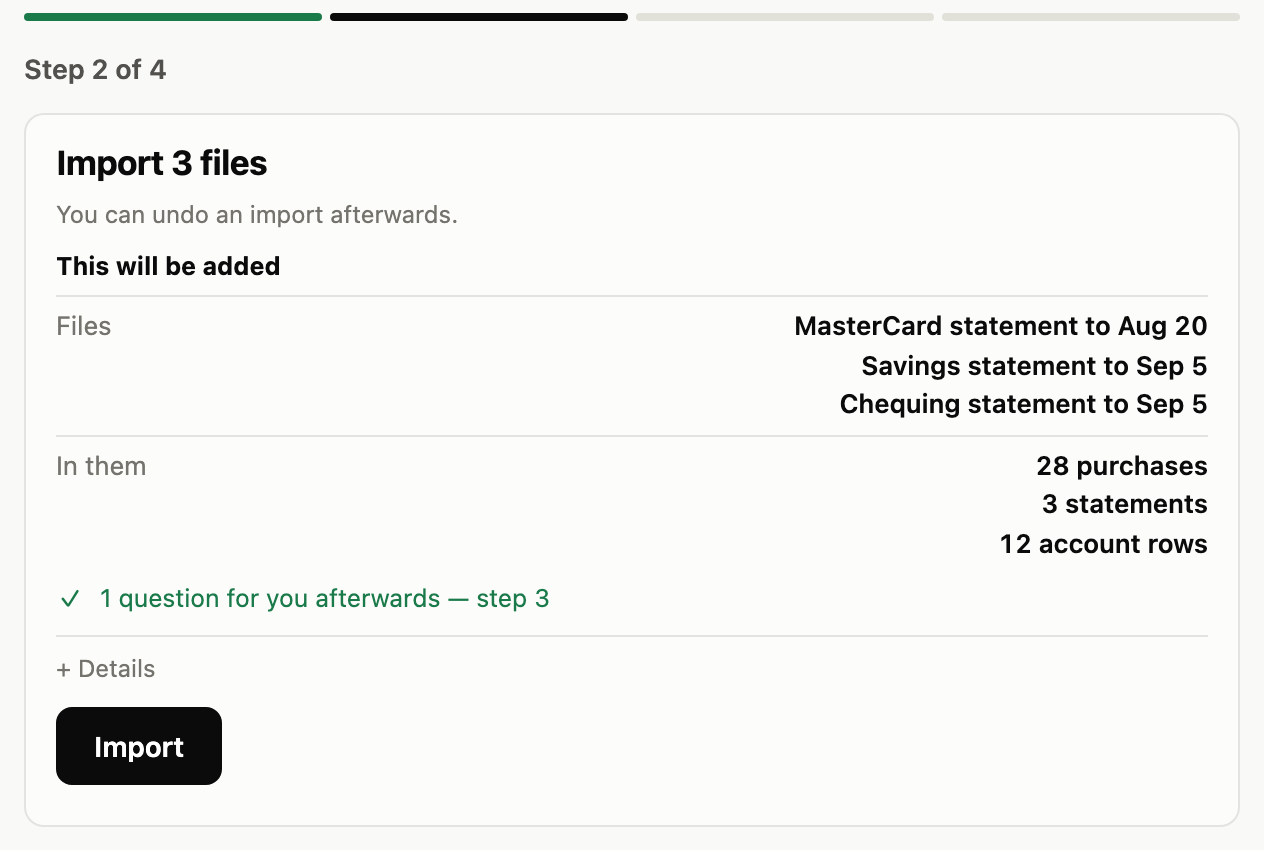
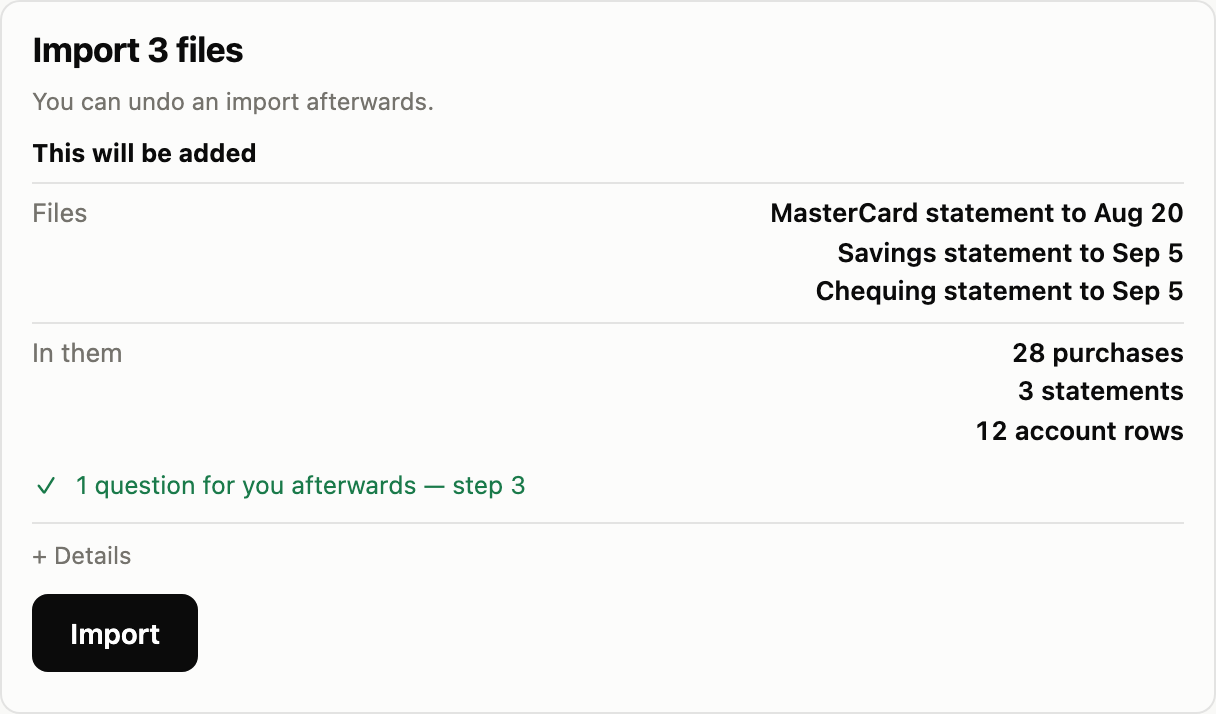
Front page: once a month, three things to do, then the result
Each card says what you do in one short line and what the app does under it; the fourth panel
step is the result, which asks nothing of you. The panel's pictures are its card only.

diff --git a/docs/site/make.py b/docs/site/make.py
@@ -58,17 +58,20 @@ EN = dict(
             ("Every number adds up.", "A statement only gets in if it matches the totals printed on it."),
             ("A FIRE plan, not just a budget.", "Years to financial independence, how long your money "
              "will last, your TFSA, RRSP and FHSA, and accounts abroad — all in one net worth.")],
-    how_lab="How it works", how_h="Four steps, once a month",
-    steps=[("Get your files", "Download last month's statements from your bank. The app tells you "
-                              "which ones are missing and where to find each.",
-            "Step 1 in the app: each account and what is still needed, and the files in the folder"),
-           ("Import", "Drag them in. Each one is read on your Mac and only gets in if it adds up.",
-            "Step 2: what the import will add, before anything is written"),
-           ("Categorize", "You only answer what a program can't decide — a new shop, a transfer "
-                          "with no name. One tap each, and it remembers next time.",
-            "Step 3: one question at a time, here a transfer with no sender"),
-           ("Done", "Your page updates with the new month.",
-            "Step 4: what changed, with the net worth before and after")],
+    how_lab="How it works", how_h="Once a month, three things to do", you="You", app="The app",
+    steps=[("Get your files", "Download last month's statements from your bank, plus your broker's export if you have one.",
+            "Tells you which ones are still missing and where to find each.",
+            "In the app: each account and what is still needed, and the files in the folder"),
+           ("Import", "Drag them in and press Import.",
+            "Reads each one on your Mac — nothing is uploaded — and only lets it in if it matches the "
+            "statement's own totals. You can undo it.",
+            "In the app: what the import will add, before anything is written"),
+           ("Categorize", "Answer what only you know: a new shop, an e-Transfer with no name. Some months "
+                          "there's nothing to ask.",
+            "Remembers every shop and sender you name.",
+            "In the app: one question at a time, here an e-Transfer with no sender")],
+    then_h="Then", then_p="Your page updates with the new month: what you spent, and where your net worth moved.",
+    then_alt="In the app: what changed, with the net worth before and after",
     panel="panel",
     q_lab="What it tells you",
     qs=[("Where do I stand?", "Your net worth across every account and currency — each part labelled "
@@ -132,15 +135,18 @@ ZH = dict(
     points=[("不用连银行。", "对账单你自己下载，app 在你的电脑上读取，不上传任何东西，也不用注册。"),
             ("每个数都对得上。", "每份对账单都要和它自己印的合计一致，才会收进来。"),
             ("不只是记账，还有 FIRE 计划。", "还要几年财务自由、退休后钱能撑多久；TFSA、RRSP、FHSA 和海外账户，都算进同一个净值。")],
-    how_lab="怎么用", how_h="每个月，四步搞定",
-    steps=[("下载文件", "从网银下载上个月的对账单。app 会提醒你还差哪几份、每份去哪下载。",
-            "app 里的第 1 步：每个账户还差什么，文件夹里已经有哪些文件"),
-           ("导入", "把文件拖进来。每份都在你的 Mac 上读取，金额核对无误才收进来。",
-            "第 2 步：写进去之前，先告诉你会加进来什么"),
-           ("归类", "只有程序判断不了的才问你，比如第一次出现的商户、没写付款人的转账。点一下就好，下次自动记住。",
-            "第 3 步：一次只问一件事，这里是一笔没写付款人的转账"),
-           ("完成", "你的总览页加上新的一个月，自动更新。",
-            "第 4 步：这次改了什么，净值前后各是多少")],
+    how_lab="怎么用", how_h="每个月，你只做三件事", you="你", app="app",
+    steps=[("下载文件", "从网银下载上个月的对账单；有券商账户的话，再导出一份券商记录。",
+            "提醒你还差哪几份、每份去哪下载。",
+            "app 里：每个账户还差什么，文件夹里已经有哪些文件"),
+           ("导入", "把文件拖进来，点「导入」。",
+            "在你的 Mac 上逐份读取，不上传；和对账单自己印的合计一致才收进来。导入后也可以撤销。",
+            "app 里：写进去之前，先告诉你会加进来什么"),
+           ("归类", "回答只有你知道的事，比如第一次出现的商户、没写付款人的 e-Transfer。有的月份一个问题都没有。",
+            "你说过的商户和付款人，它都会记住。",
+            "app 里：一次只问一件事，这里是一笔没写付款人的 e-Transfer")],
+    then_h="然后", then_p="你的总览页加上新的一个月：花了多少，净值怎么变。",
+    then_alt="app 里：这次改了什么，净值前后各是多少",
     panel="panel-zh",
     q_lab="它能回答",
     qs=[("我现在有多少家底？", "所有账户、所有币种合在一起的净值：每一行是这笔钱的用途，色条的颜色表示取用有多方便。",
@@ -224,17 +230,26 @@ h1 { font-size:clamp(30px,3.3vw,44px); line-height:1.1; letter-spacing:-.025em; 
 .points span { color:var(--ink-2); font-size:15px; }
 section { padding:72px 0 0; scroll-margin-top:60px; }
 h2 { font-size:clamp(24px,3vw,32px); letter-spacing:-.015em; line-height:1.2; margin:0 0 28px; }
-.steps { display:grid; grid-template-columns:1fr 1fr; gap:48px 40px; align-items:start;
-         margin:0; padding:0; list-style:none; counter-reset:s; }
-@media (max-width:760px) { .steps { grid-template-columns:1fr; gap:40px; } }
-.steps li { counter-increment:s; }
-.steps .st { position:relative; padding:0 0 18px 44px; min-height:92px; }
-@media (max-width:760px) { .steps .st { min-height:0; } }
-.steps .st::before { content:counter(s); position:absolute; left:0; top:0; width:28px; height:28px; border-radius:50%;
-                    background:var(--btn); color:#fff; font-weight:700; font-size:14px; display:flex;
-                    align-items:center; justify-content:center; }
-.steps b { display:block; font-size:17px; margin:2px 0 4px; }
-.steps span { color:var(--ink-2); font-size:15px; }
+/* Once a month, three things to do (2026-11-17, user 001): what you do is one short line, what the
+   app does the longer one under it; then the result, which asks nothing of you. */
+.walk { display:grid; grid-template-columns:1fr 1fr; gap:20px; align-items:start; margin:0; padding:0; list-style:none; }
+@media (max-width:980px) { .walk { grid-template-columns:1fr; } }
+.wk { background:var(--surface); border:1px solid var(--border); border-radius:14px; padding:22px 22px 20px;
+      display:flex; flex-direction:column; gap:16px; }
+.wk h3 { display:flex; align-items:center; gap:12px; font-size:20px; margin:0; letter-spacing:-.01em; }
+.wk h3 i { flex:none; width:28px; height:28px; border-radius:50%; background:var(--btn); color:#fff; font-style:normal;
+           font-size:14px; font-weight:700; display:inline-flex; align-items:center; justify-content:center; }
+.who { display:grid; grid-template-columns:auto 1fr; gap:8px 14px; margin:0; font-size:15.5px; line-height:1.5; }
+.who dt { color:var(--muted); font-size:12px; font-weight:700; letter-spacing:.06em; text-transform:uppercase;
+          padding-top:3px; white-space:nowrap; }
+.who dd { margin:0; color:var(--ink-2); }
+.who dd.you { color:var(--ink); }
+.wk .pic { margin:0; }
+.wk .pic img { display:block; width:100%; height:auto; border-radius:10px; border:1px solid var(--border);
+               box-shadow:0 1px 2px rgba(46,44,41,.05), 0 10px 28px rgba(46,44,41,.08); }
+.wk.then { background:#eaf1ea; border-color:rgba(30,122,70,.22); }
+.wk.then h3 i { background:var(--ok); }
+.wk.then p { margin:0; font-size:15.5px; color:var(--ink-2); }
 .qs { display:grid; gap:56px; }
 .q { display:grid; grid-template-columns:4fr 7fr; gap:40px; align-items:center; }
 .q:nth-child(even) { grid-template-columns:7fr 4fr; }
@@ -330,9 +345,11 @@ def page(t, base):
   <section id="how">
     <p class="lab">{e(t['how_lab'])}</p>
     <h2>{e(t['how_h'])}</h2>
-    <ol class="steps">{''.join(f'<li><div class="st"><b>{e(a)}</b><span>{e(b)}</span></div>'
-                               f'<figure class="shot">{img(panel(i), alt)}</figure></li>'
-                               for i, (a, b, alt) in enumerate(t['steps'], 1))}</ol>
+    <ol class="walk">{''.join(f'<li class="wk"><h3><i>{i}</i>{e(a)}</h3><dl class="who"><dt>{e(t["you"])}</dt>'
+                              f'<dd class="you">{e(y)}</dd><dt>{e(t["app"])}</dt><dd>{e(d)}</dd></dl>'
+                              f'<figure class="pic">{img(panel(i), alt)}</figure></li>'
+                              for i, (a, y, d, alt) in enumerate(t['steps'], 1))}<li class="wk then"><h3><i>✓</i>{e(t['then_h'])}</h3>
+      <p>{e(t['then_p'])}</p><figure class="pic">{img(panel(4), t['then_alt'])}</figure></li></ol>
   </section>
 
   <section>

diff --git a/tools/demo.py b/tools/demo.py
@@ -605,12 +605,11 @@ def screenshots(out):
 # and dropped into inbox/ as the bank would send it, the way the selftest does — so each view
 # shows what it really shows: the files to get, what the import will add, what it asks, what
 # changed. The copy's "today" is the demo's own date, so "still needed" does not grow with the
-# calendar. panel.png and panel-zh.png (README) are the third view.
+# calendar. Only the view's card is taken, not the "Step N of 4" bar above it: the front page
+# says three things to do and a result (2026-11-17). panel.png and panel-zh.png (README) are the third view.
 PANEL_LANGS = (("en", "panel"), ("zh", "panel-zh"))
-PANEL_BOX = """() => { const top = document.getElementById('bars').getBoundingClientRect();
-  const card = [...document.querySelectorAll('.card.view')].find(c => c.offsetParent !== null).getBoundingClientRect();
-  const w = document.querySelector('.wrap').getBoundingClientRect();
-  return [w.x - 12, top.y - 6, w.width + 24, card.bottom - top.y + 18]; }"""
+PANEL_BOX = """() => { const c = [...document.querySelectorAll('.card.view')].find(c => c.offsetParent !== null).getBoundingClientRect();
+  return [c.x, c.y, c.width, c.height]; }"""
 
 
 def panel_shots(out, dst, browser):

diff --git a/CHANGELOG.md b/CHANGELOG.md
@@ -1,5 +1,11 @@
 # Changelog
 
+## 1.0.9 — unreleased
+
+- **The front page says what a month asks of you**: three things to do — get the files, import,
+  categorize — each with what you do and what the app does, and then the result. The panel's
+  pictures show only its card.
+
 ## 1.0.8 — 2026-11-17
 
 - **Download for Mac downloads the app**: the front page's button fetches the newest disk image
